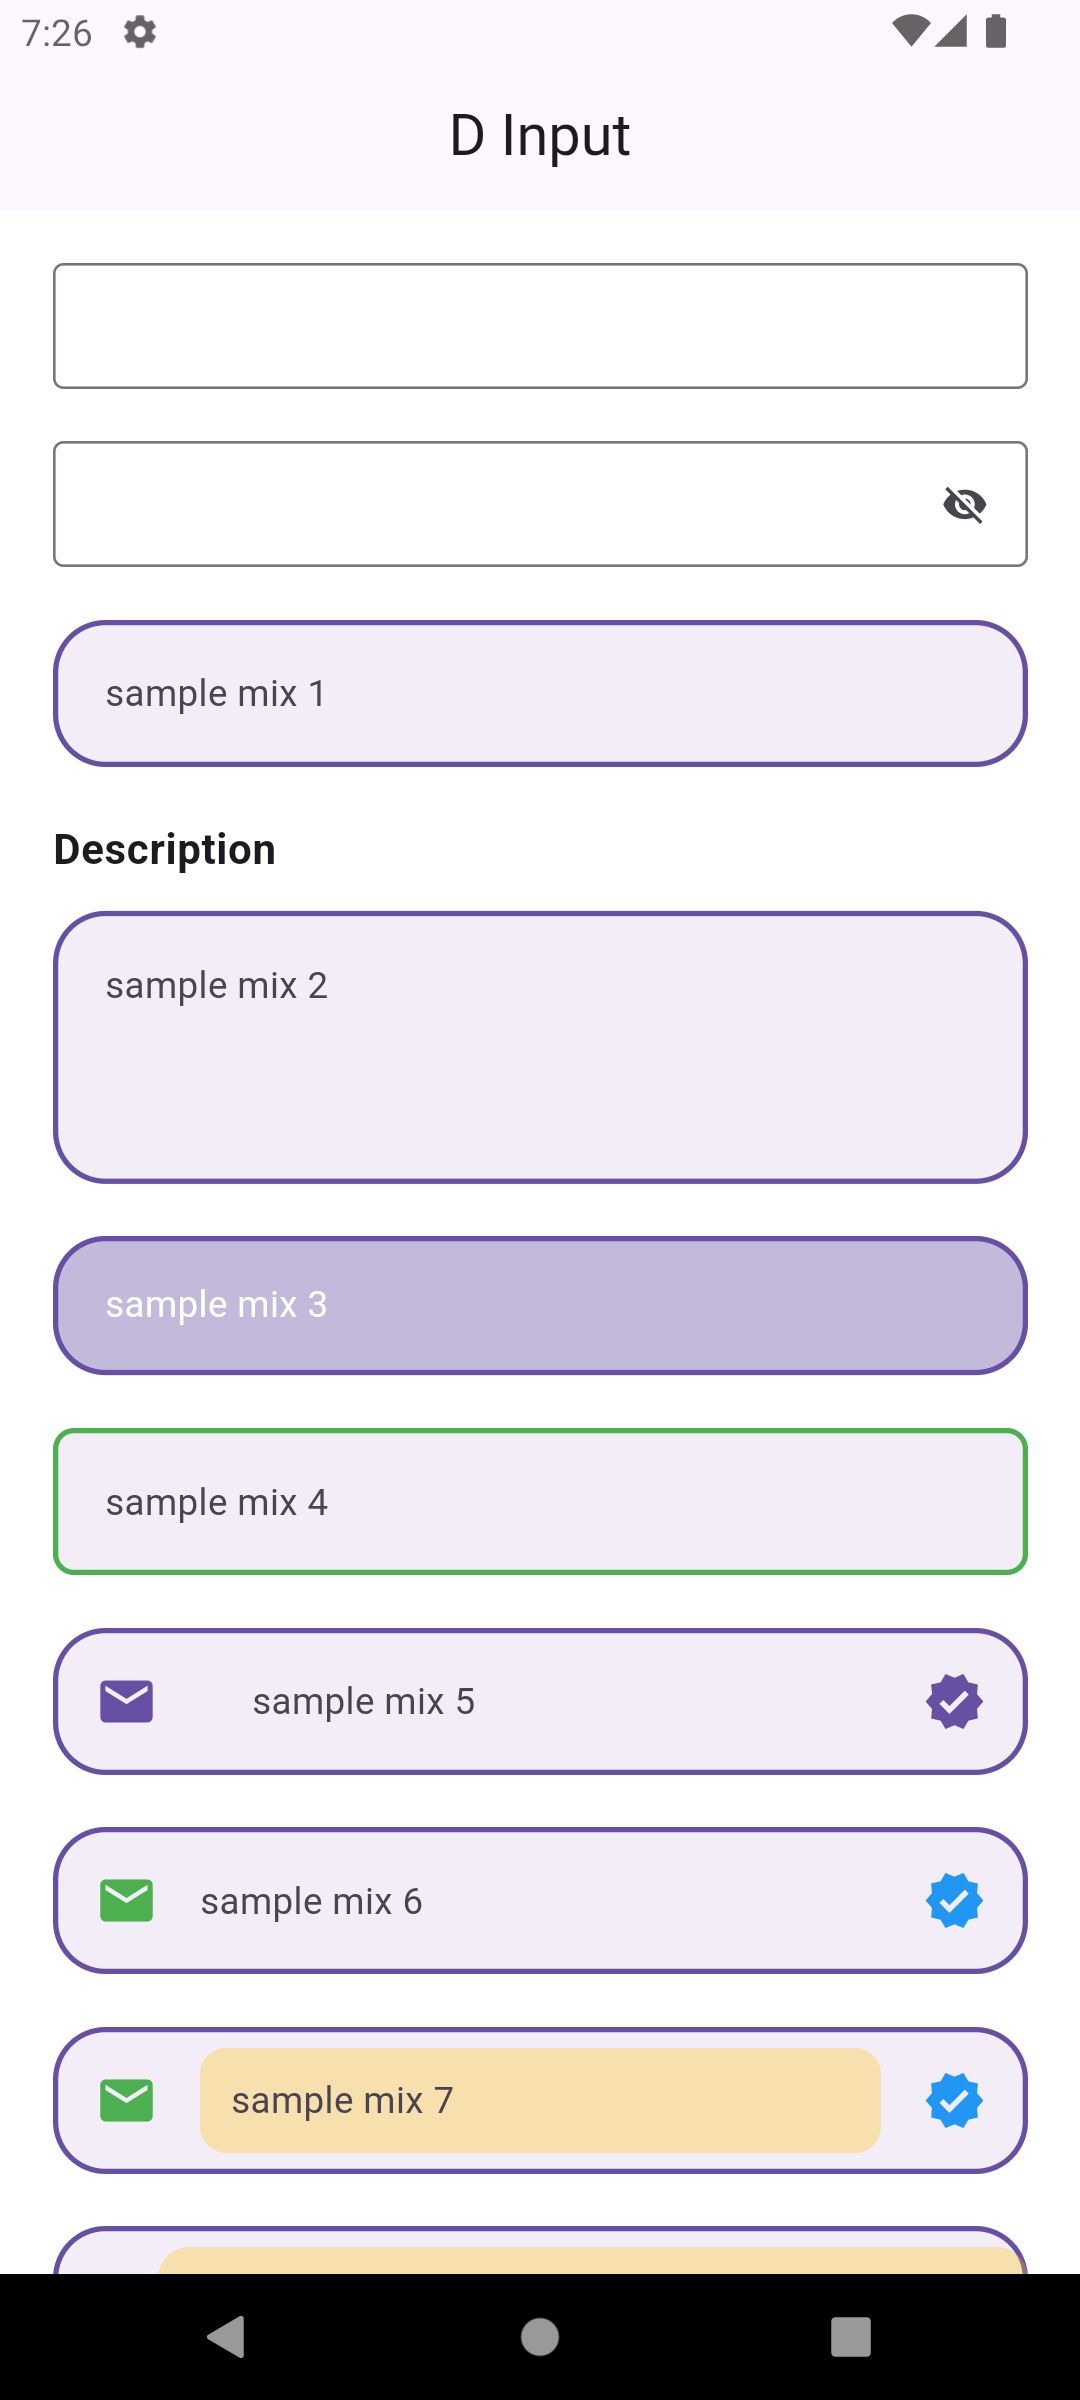
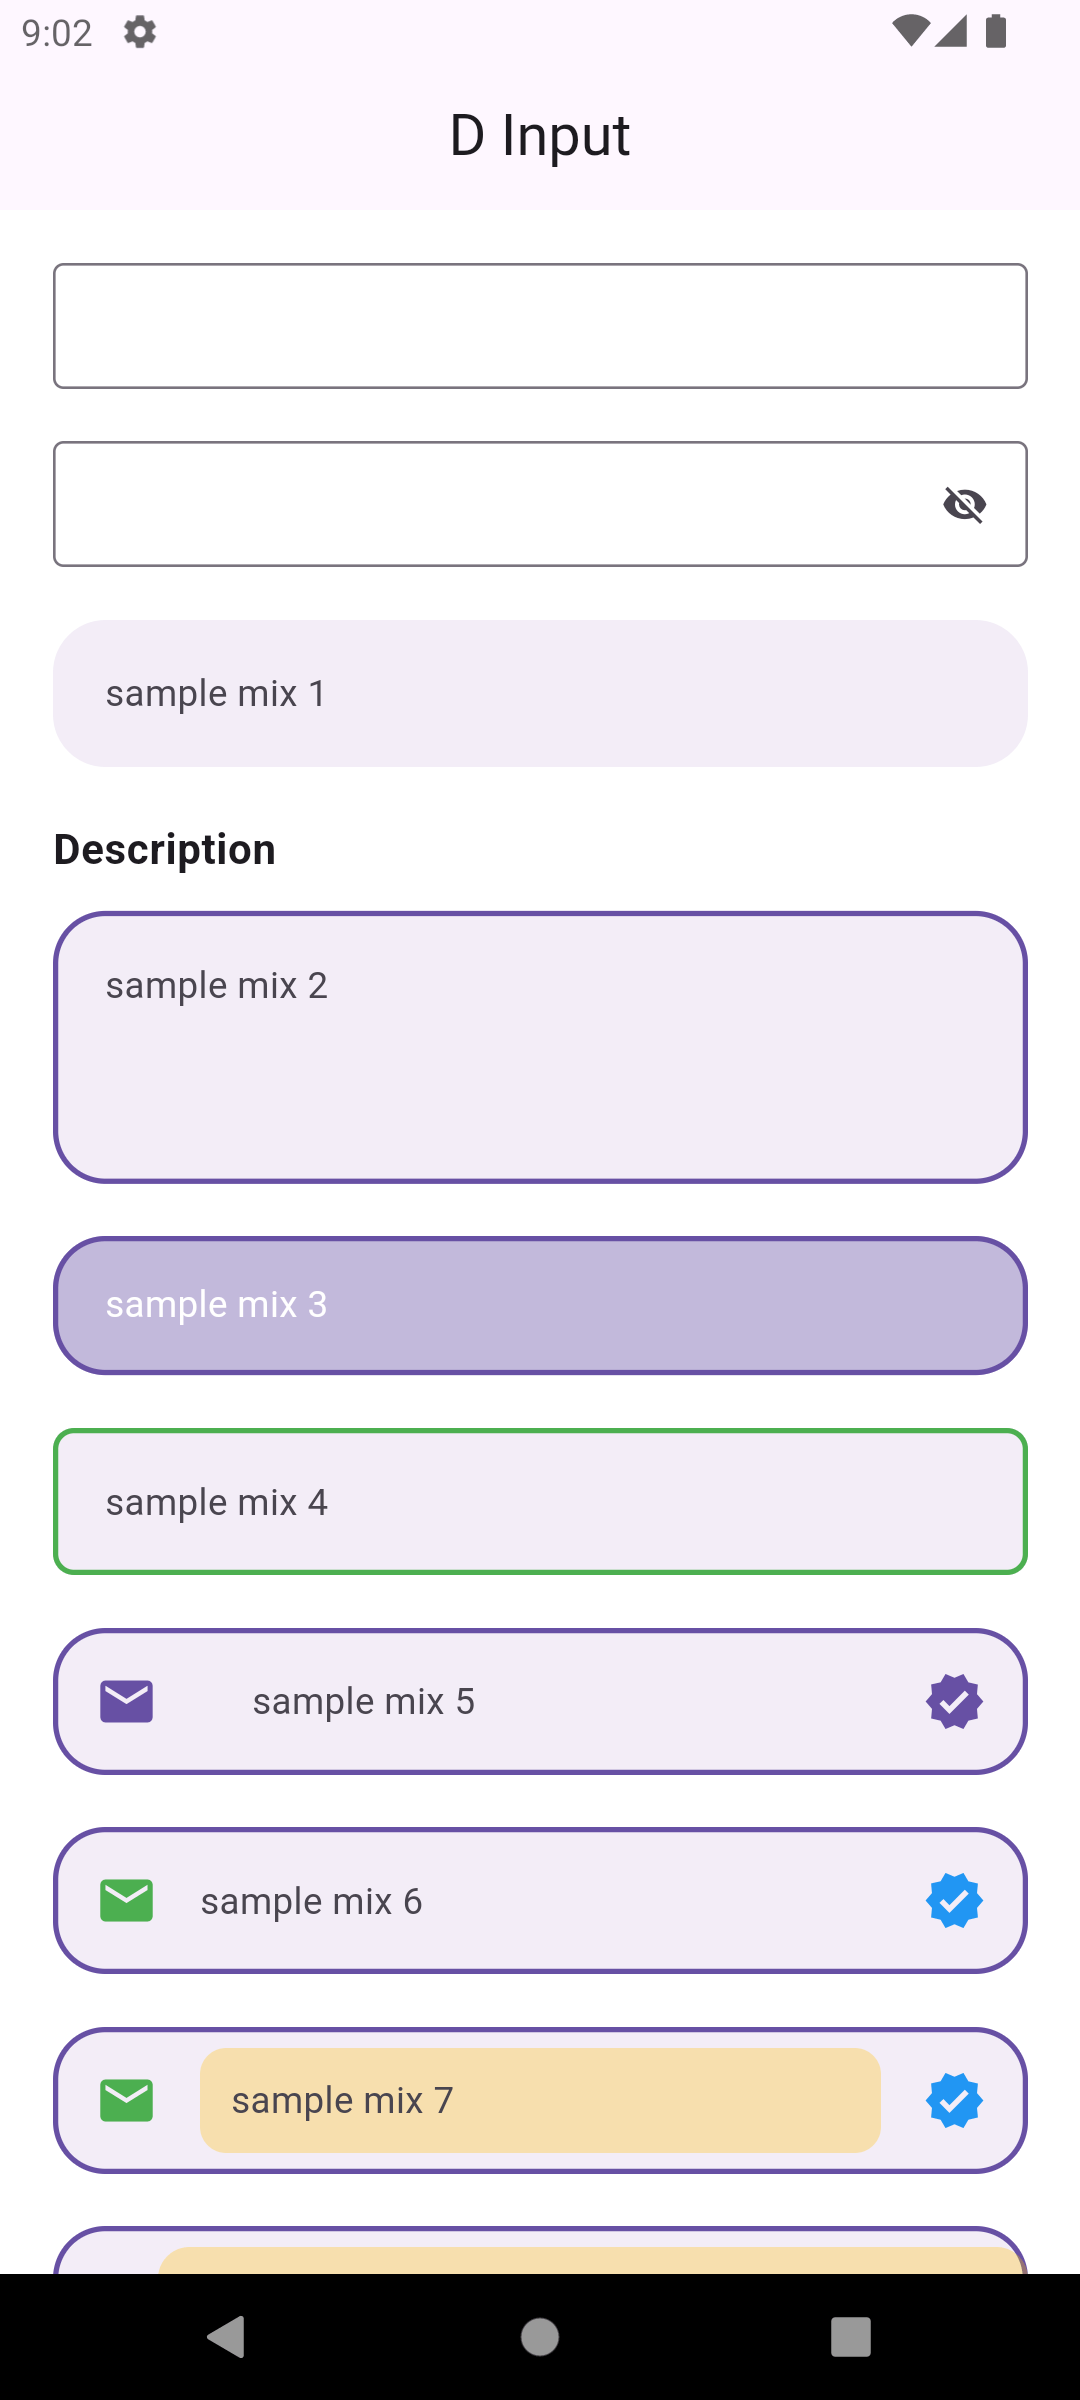
new property `noBoxBorder`

diff --git a/lib/input_mix.dart b/lib/input_mix.dart
@@ -7,6 +7,7 @@ class DInputMix extends StatelessWidget {
     this.boxRadius = 20,
     this.boxBorder,
     this.boxColor,
+    this.noBoxBorder = false,
     this.inputPadding = const EdgeInsets.symmetric(
       horizontal: 20,
       vertical: 16,
@@ -60,6 +61,9 @@ class DInputMix extends StatelessWidget {
   ///
   /// default: Theme.of(context).colorScheme.surfaceContainer
   final Color? boxColor;
+
+  /// default: false
+  final bool noBoxBorder;
 
   /// contentPadding inside InputDecoration
   final EdgeInsetsGeometry inputPadding;
@@ -161,7 +165,7 @@ class DInputMix extends StatelessWidget {
           decoration: BoxDecoration(
             color: boxColor ?? Theme.of(context).colorScheme.surfaceContainer,
             borderRadius: BorderRadius.circular(boxRadius),
-            border: newBoxBorder,
+            border: noBoxBorder ? null : newBoxBorder,
           ),
           child: Row(
             crossAxisAlignment: crossAxisAlignmentBox,

diff --git a/example/lib/main.dart b/example/lib/main.dart
@@ -71,6 +71,7 @@ class _TestDInputState extends State<TestDInput> {
           DInputMix(
             controller: controller1,
             hint: 'sample mix 1',
+            noBoxBorder: true,
             inputOnFieldSubmitted: (value) {
               print('submit: $value');
             },

diff --git a/CHANGELOG.md b/CHANGELOG.md
@@ -1,3 +1,8 @@
+## 0.3.2
+
+- DInputMix:
+  - new property `noBoxBorder`. default: false
+
 ## 0.3.1
 
 - DInputMix:
